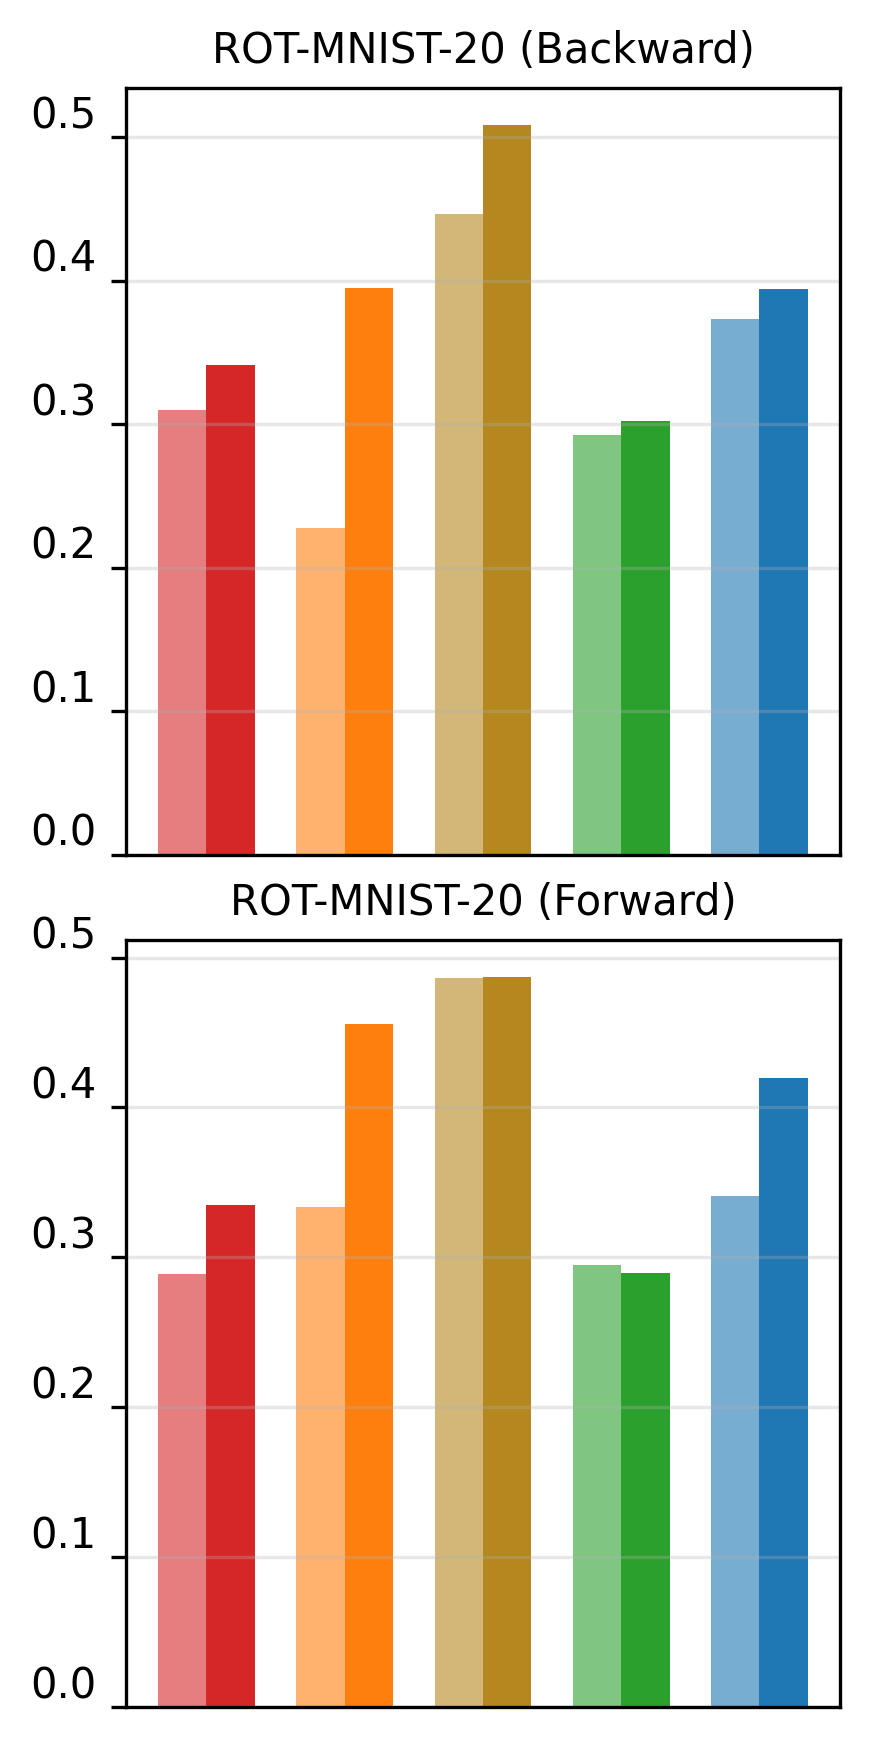
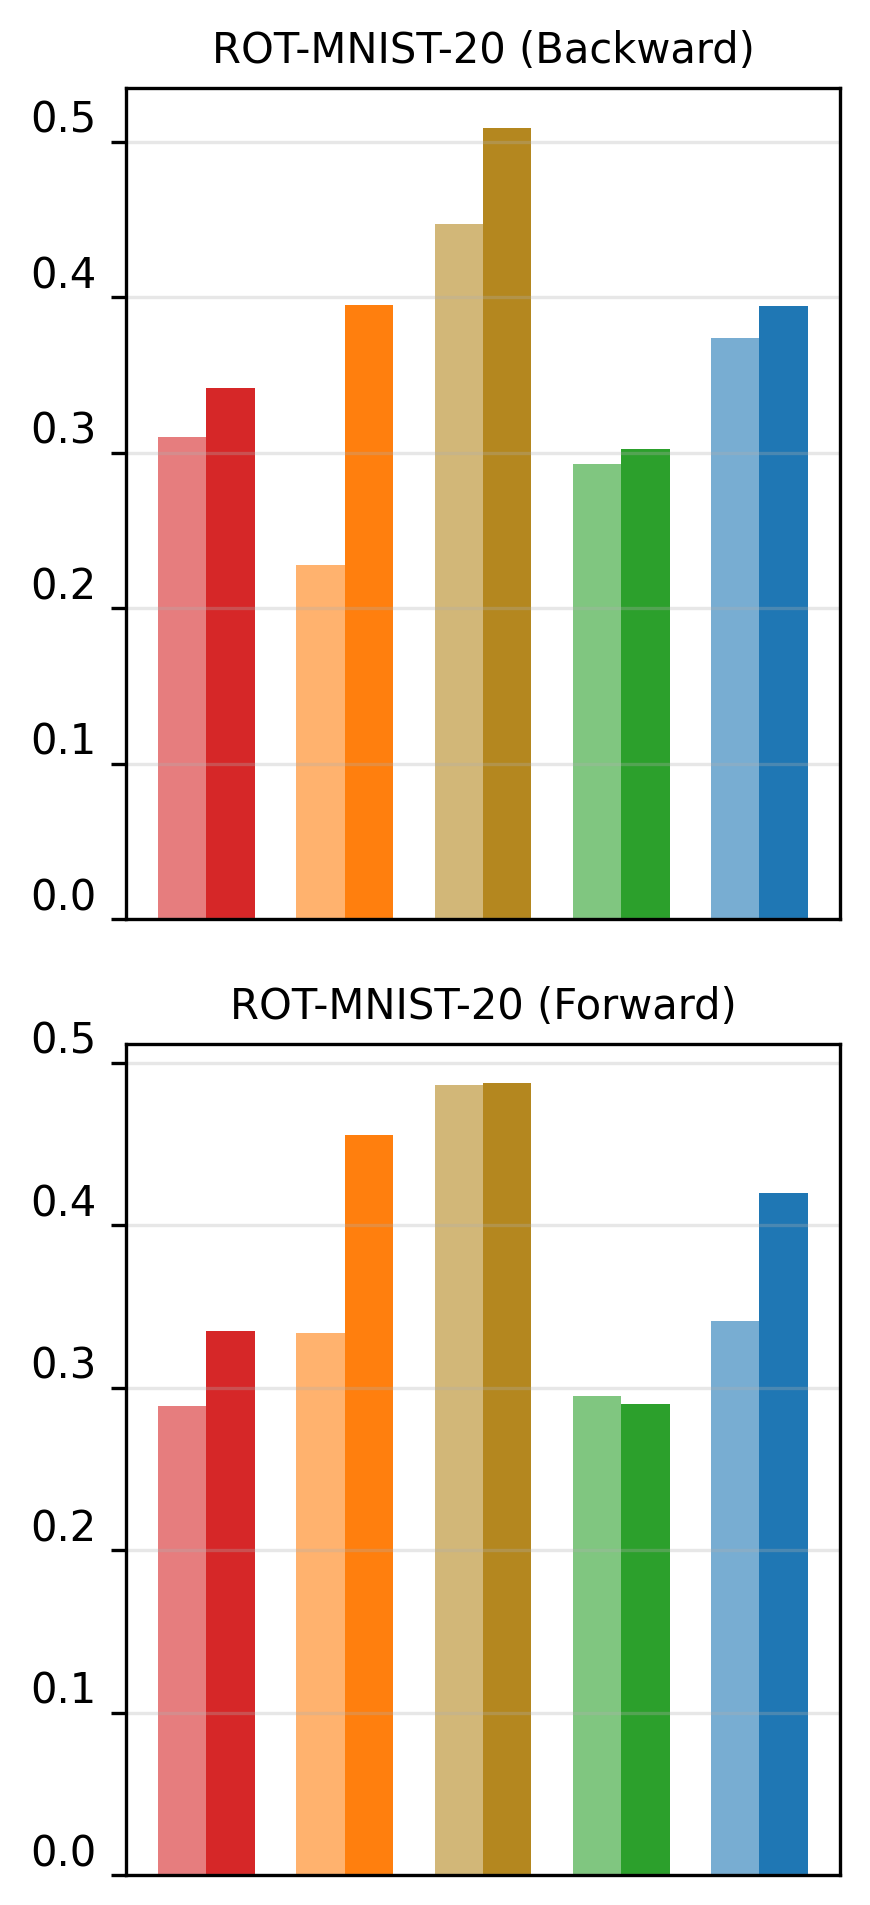
space in sauce plot

diff --git a/results_for_paper.py b/results_for_paper.py
@@ -1190,7 +1190,7 @@ def plot_sauce(
         
     
     plt.tight_layout()
-    plt.subplots_adjust(bottom=0.18)
+    plt.subplots_adjust(bottom=0.1, hspace=0.15)
 
     # Save to dataset-specific directory
     plot_dir = PLOTS_DIR / "paper_plots" / dataset
